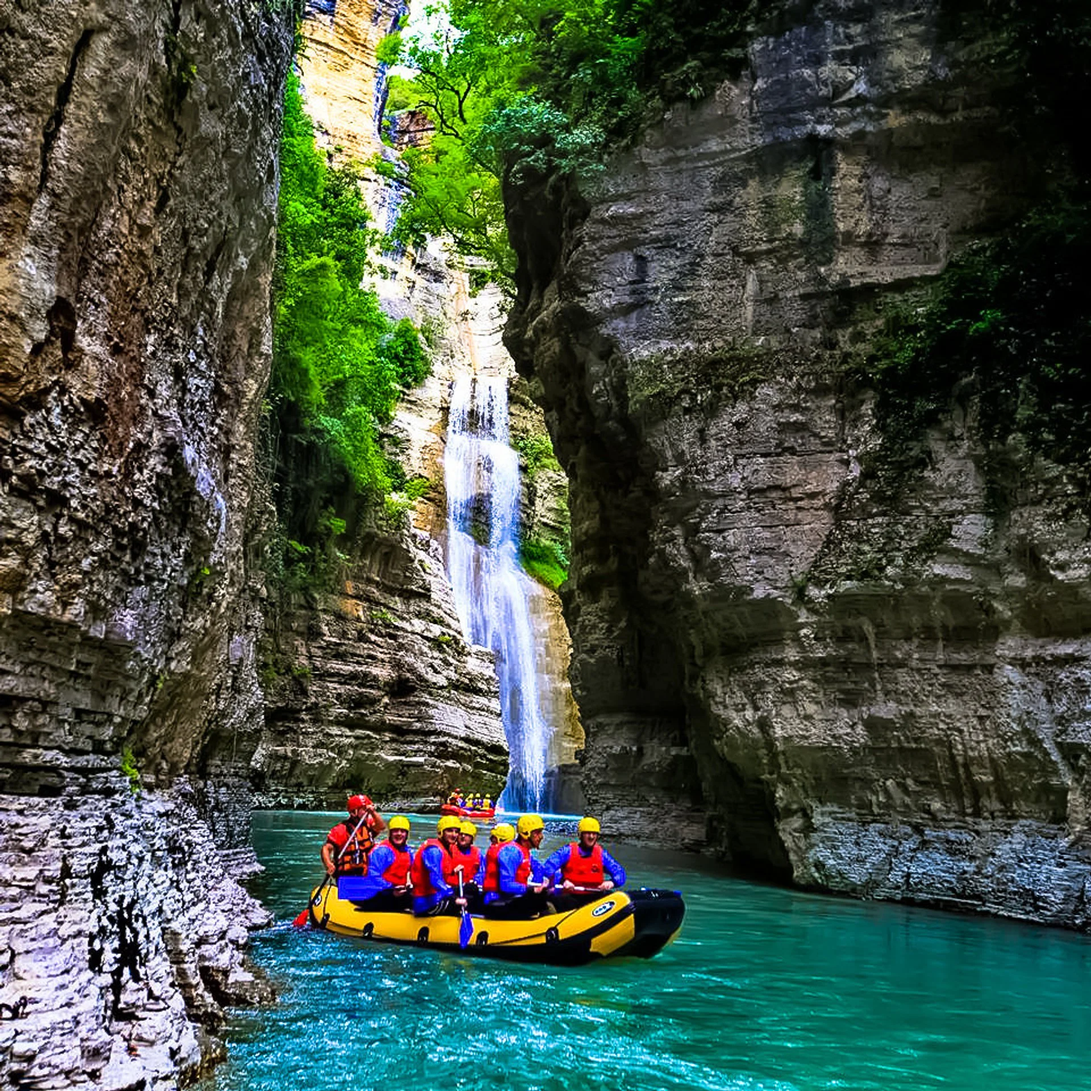
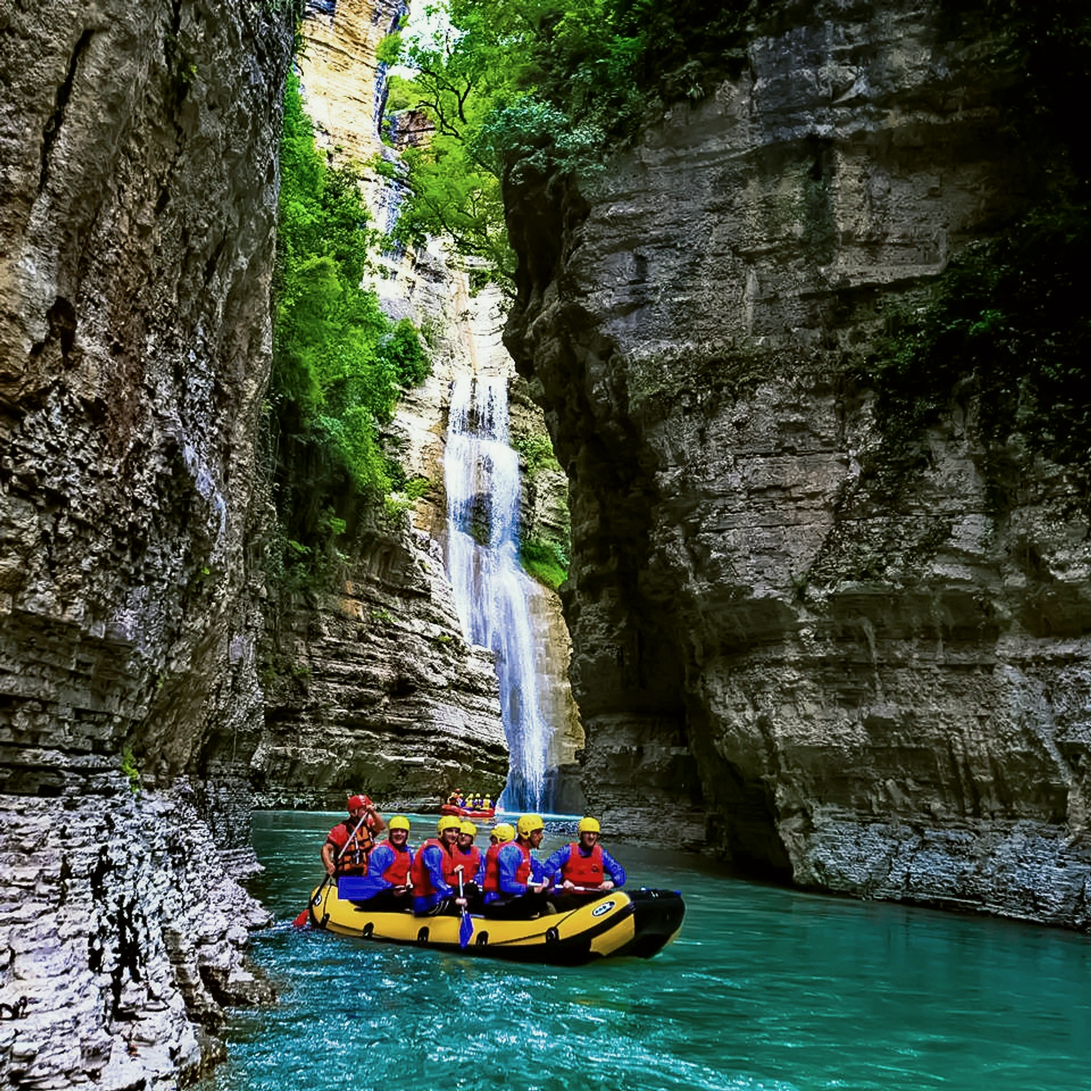
+++++++

diff --git a/src/components/experiences/ExperienceCard.jsx b/src/components/experiences/ExperienceCard.jsx
@@ -16,24 +16,26 @@ function ExperienceCard({ experience, compact = false }) {
         alt={experience.title}
         className="absolute inset-0 h-full w-full object-cover transition duration-300 ease-out group-hover:scale-105"
       />
-      <div className="absolute inset-0 bg-foreground/45" />
+      <div className="absolute inset-0 bg-foreground/58" />
 
       <div className="relative flex h-full flex-col justify-end p-8 text-white sm:p-10">
-        <p className="text-sm font-semibold uppercase tracking-[0.22em] text-secondary">
-          {experience.duration}
-        </p>
-        <h3 className={`${compact ? 'text-3xl' : 'text-4xl'} mt-4 font-display leading-tight`}>
-          {experience.title}
-        </h3>
-        <p className="mt-4 max-w-xl text-base leading-7 text-white/80">{experience.description}</p>
-        <div className="mt-8 flex flex-wrap items-center justify-between gap-4">
-          <span className="text-sm uppercase tracking-[0.18em] text-white/60">{experience.season}</span>
-          <Link
-            to={`/contact?experience=${experience.slug}`}
-            className="inline-flex items-center gap-2 text-sm font-semibold uppercase tracking-[0.18em] text-white"
-          >
-            Learn More <ArrowRight size={16} />
-          </Link>
+        <div className="rounded-[24px] bg-foreground/22 p-6 text-shadow-soft backdrop-blur-[3px] sm:p-7">
+          <p className="text-sm font-semibold uppercase tracking-[0.22em] text-secondary">
+            {experience.duration}
+          </p>
+          <h3 className={`${compact ? 'text-3xl' : 'text-4xl'} mt-4 font-display leading-tight`}>
+            {experience.title}
+          </h3>
+          <p className="mt-4 max-w-xl text-base leading-7 text-white/92">{experience.description}</p>
+          <div className="mt-8 flex flex-wrap items-center justify-between gap-4">
+            <span className="text-sm uppercase tracking-[0.18em] text-white/78">{experience.season}</span>
+            <Link
+              to={`/contact?experience=${experience.slug}`}
+              className="inline-flex items-center gap-2 text-sm font-semibold uppercase tracking-[0.18em] text-white"
+            >
+              Learn More <ArrowRight size={16} />
+            </Link>
+          </div>
         </div>
       </div>
     </motion.article>

diff --git a/src/components/home/Hero.jsx b/src/components/home/Hero.jsx
@@ -11,22 +11,22 @@ function Hero() {
         alt={siteMedia.hero.alt}
         className="absolute inset-0 h-full w-full object-cover"
       />
-      <div className="absolute inset-0 bg-foreground/45" />
+      <div className="absolute inset-0 bg-foreground/60" />
 
       <Container className="relative z-10">
         <motion.div
           initial={{ opacity: 0, y: 24 }}
           animate={{ opacity: 1, y: 0 }}
           transition={{ duration: 0.4, ease: 'easeOut' }}
-          className="max-w-3xl"
+          className="max-w-3xl rounded-[32px] bg-foreground/22 p-6 text-shadow-soft backdrop-blur-[3px] sm:p-8 lg:p-10"
         >
-          <span className="inline-flex rounded-full border border-white/25 bg-white/10 px-4 py-2 text-sm uppercase tracking-[0.2em] text-white/85 backdrop-blur">
-             Guesthouse in Përmet
+          <span className="inline-flex rounded-full border border-white/30 bg-white/14 px-4 py-2 text-sm uppercase tracking-[0.2em] text-white/95 backdrop-blur">
+            Guesthouse in Përmet
           </span>
           <h1 className="mt-6 font-display text-5xl leading-tight sm:text-6xl lg:text-[5.5rem]">
             Experience Comfort &amp; Authenticity in Përmet
           </h1>
-          <p className="mt-6 max-w-2xl text-lg leading-8 text-white/80 sm:text-xl">
+          <p className="mt-6 max-w-2xl text-lg leading-8 text-white/92 sm:text-xl">
             A peaceful retreat surrounded by nature, crafted for guests who want quiet mornings,
             thoughtful rooms, and memorable days on the river, in the mountains, and at Benja.
           </p>

diff --git a/src/components/layout/Navbar.jsx b/src/components/layout/Navbar.jsx
@@ -34,13 +34,14 @@ function Navbar() {
   }, [location.pathname]);
 
   const shellClasses = isTransparent
-    ? 'border-transparent bg-transparent text-white'
+    ? 'border-white/10 bg-foreground/14 text-white backdrop-blur-[6px]'
     : 'border-primary/10 bg-white/95 text-foreground shadow-sm backdrop-blur';
+  const brandClasses = isTransparent ? 'text-shadow-soft' : '';
 
   return (
     <header className={`fixed inset-x-0 top-0 z-50 border-b transition-all duration-300 ${shellClasses}`}>
       <Container className="flex h-20 items-center justify-between">
-        <Link to="/" className="font-display text-2xl tracking-[0.08em]">
+        <Link to="/" className={`font-display text-2xl tracking-[0.08em] ${brandClasses}`.trim()}>
           Shtëpia Ime
         </Link>
 
@@ -50,7 +51,7 @@ function Navbar() {
               key={to}
               to={to}
               className={({ isActive }) =>
-                `nav-link ${isTransparent ? 'text-white/85 hover:text-white' : 'text-foreground/75 hover:text-primary'} ${isActive ? (isTransparent ? 'text-white' : 'text-primary') : ''}`.trim()
+                `nav-link ${isTransparent ? 'text-white/92 text-shadow-soft hover:text-white' : 'text-foreground/75 hover:text-primary'} ${isActive ? (isTransparent ? 'text-white' : 'text-primary') : ''}`.trim()
               }
             >
               {label}

diff --git a/src/data/rooms.js b/src/data/rooms.js
@@ -9,9 +9,9 @@ export const rooms = [
     size: 35,
     amenities: ['wifi', 'ac', 'balcony', 'minibar', 'tv'],
     images: [
-      '/images/rooms/room-rustic-door.jpeg',
-      '/images/rooms/room-sunlit-bed.jpg',
-      '/images/rooms/room-headboard.jpg',
+      '/images/rooms/room-rustic-door.webp',
+      '/images/rooms/room-sunlit-bed.webp',
+      '/images/rooms/room-headboard.webp',
     ],
     price: 80,
   },
@@ -25,9 +25,9 @@ export const rooms = [
     size: 42,
     amenities: ['wifi', 'ac', 'breakfast', 'tv', 'parking'],
     images: [
-      '/images/rooms/room-sunlit-bed.jpg',
-      '/images/rooms/room-wide-bed.jpg',
-      '/images/rooms/room-rustic-door.jpeg',
+      '/images/rooms/room-sunlit-bed.webp',
+      '/images/rooms/room-wide-bed.webp',
+      '/images/rooms/room-rustic-door.webp',
     ],
     price: 95,
   },
@@ -41,9 +41,9 @@ export const rooms = [
     size: 28,
     amenities: ['wifi', 'ac', 'breakfast', 'bath', 'tv'],
     images: [
-      '/images/rooms/room-headboard.jpg',
-      '/images/rooms/room-rustic-door.jpeg',
-      '/images/rooms/room-wide-bed.jpg',
+      '/images/rooms/room-headboard.webp',
+      '/images/rooms/room-rustic-door.webp',
+      '/images/rooms/room-wide-bed.webp',
     ],
     price: 70,
   },

diff --git a/src/data/site.js b/src/data/site.js
@@ -12,23 +12,23 @@ export const siteDetails = {
 
 export const siteMedia = {
   hero: {
-    src: '/images/experiences/langarica-canyon.jpg',
+    src: '/images/experiences/langarica-canyon.webp',
     alt: 'Langarica Canyon and the Ottoman bridge near Përmet',
   },
   aboutPreview: {
-    src: '/images/property/garden-lounge.jpg',
+    src: '/images/property/garden-lounge.webp',
     alt: 'Garden lounge area at Shtëpia Ime beneath the pergola',
   },
   aboutHero: {
-    src: '/images/property/guesthouse-night.jpg',
+    src: '/images/property/guesthouse-night.webp',
     alt: 'Shtëpia Ime pergola and courtyard seating at night',
   },
   aboutStory: {
-    src: '/images/rooms/room-rustic-door.jpeg',
+    src: '/images/rooms/room-rustic-door.webp',
     alt: 'Guest room at Shtëpia Ime with timber beams and balcony doors',
   },
   instagramProfile: {
-    src: '/images/brand/logo.jpg',
-    alt: 'Instagram profile image for Shtëpia Ime',
+    src: '/images/brand/logo.webp',
+    alt: 'Shtëpia Ime logo',
   },
 };

diff --git a/src/data/experiences.js b/src/data/experiences.js
@@ -15,7 +15,7 @@ export const experiences = [
     title: 'Mountain Hiking',
     description:
       'Follow panoramic trails through stone villages, pine forests, and high viewpoints shaped by the rhythm of southern Albania.',
-    image: '/images/experiences/langarica-canyon.jpg',
+    image: '/images/experiences/langarica-canyon.webp',
     duration: 'Half-day or full-day',
     season: 'Year-round',
   },
@@ -25,7 +25,7 @@ export const experiences = [
     title: 'Benja Thermal Baths',
     description:
       'Slip into mineral-rich thermal pools beneath the Ottoman bridge and unwind in one of the region’s most iconic natural settings.',
-    image: '/images/experiences/benja-thermal-pool.jpg',
+    image: '/images/experiences/benja-thermal-pool.webp',
     duration: '2-3 hours',
     season: 'Best at sunrise or sunset',
   },

diff --git a/src/pages/About.jsx b/src/pages/About.jsx
@@ -40,9 +40,9 @@ function About() {
           alt={siteMedia.aboutHero.alt}
           className="absolute inset-0 h-full w-full object-cover"
         />
-        <div className="absolute inset-0 bg-foreground/45" />
+        <div className="absolute inset-0 bg-foreground/60" />
         <Container className="relative z-10">
-          <div className="max-w-3xl">
+          <div className="max-w-3xl rounded-[30px] bg-foreground/20 p-6 text-shadow-soft backdrop-blur-[3px] sm:p-8">
             <p className="text-sm font-semibold uppercase tracking-[0.22em] text-secondary">
               About Shtëpia Ime
             </p>

diff --git a/src/index.css b/src/index.css
@@ -62,6 +62,10 @@
     @apply transition duration-300 ease-out hover:-translate-y-0.5;
   }
 
+  .text-shadow-soft {
+    text-shadow: 0 4px 18px rgb(0 0 0 / 0.28);
+  }
+
   .nav-link {
     @apply text-sm font-medium uppercase tracking-[0.18em];
   }
